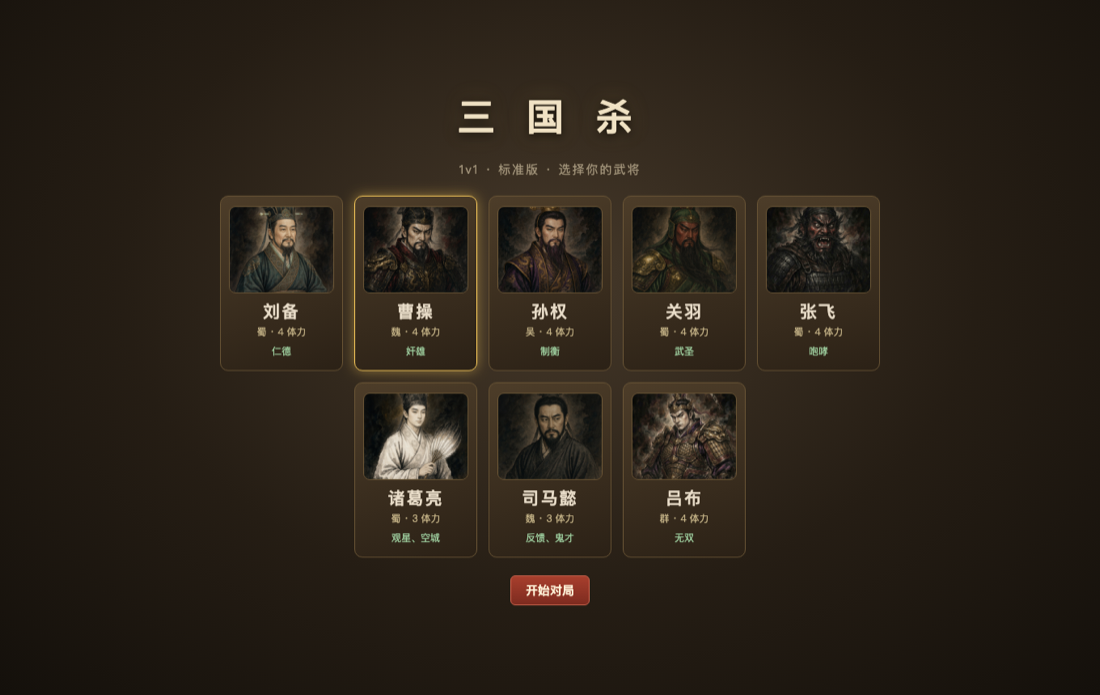
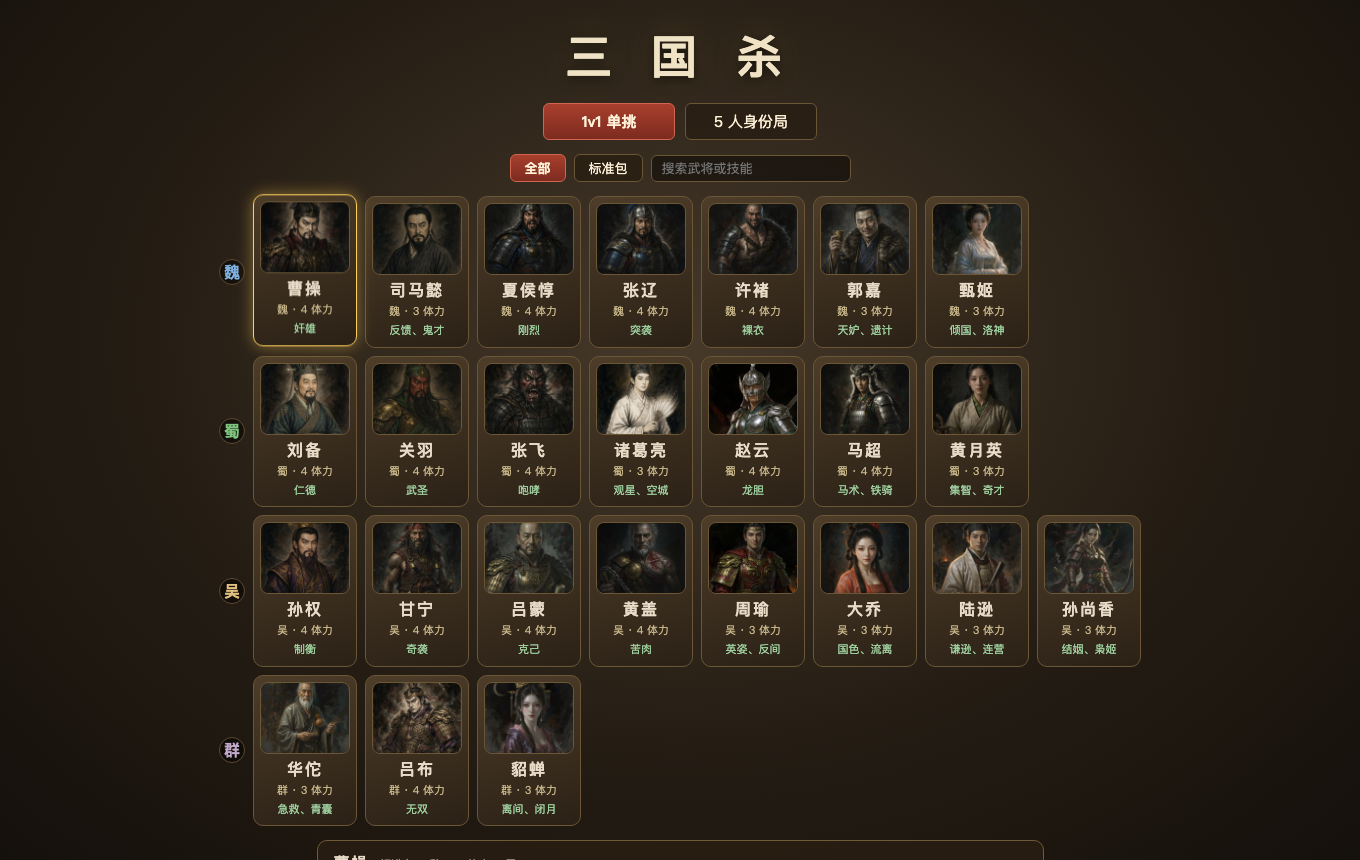
补齐标准版其余 17 名武将的 AI 生成头像

diff --git a/README.md b/README.md
@@ -14,7 +14,7 @@
 
 ![选将界面](docs/screenshot-setup.png)
 
-> 武将头像为 AI 生成，非官方美术素材。
+> 标准版 25 名武将头像均为 AI 生成，非官方美术素材。
 
 ## 运行
 
@@ -139,7 +139,7 @@ npm run shot       # 截图当前界面，用于人工核对布局
 - **观星在 1v1 只看 2 张**：官方公式为 `min(5, 存活角色数)`，2 人局即 2 张
 - **方天画戟**仅作为攻击范围 4 的武器：其"最后手牌当【杀】可指定至多 3 个目标"在 1v1 只有单一敌人，无实际意义
 - **AI 是启发式规则**，非搜索或学习模型；身份局 AI 对局中主公方胜率偏高（约 2/3）
-- **仁德为原版描述**（给出第二张牌时回复 1 点），与界限版不同；新增 17 名武将暂无头像，界面显示纯文字武将牌
+- **仁德为原版描述**（给出第二张牌时回复 1 点），与界限版不同
 
 ## License
 
